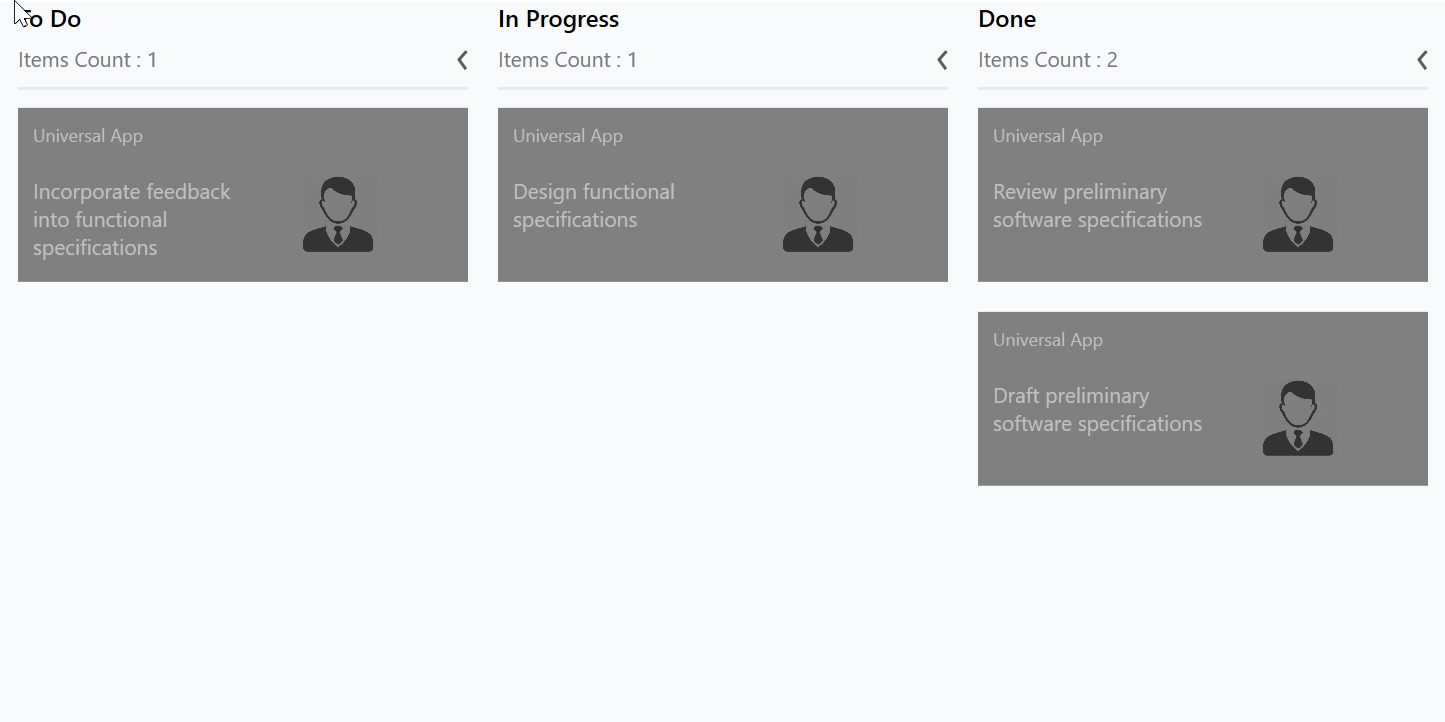
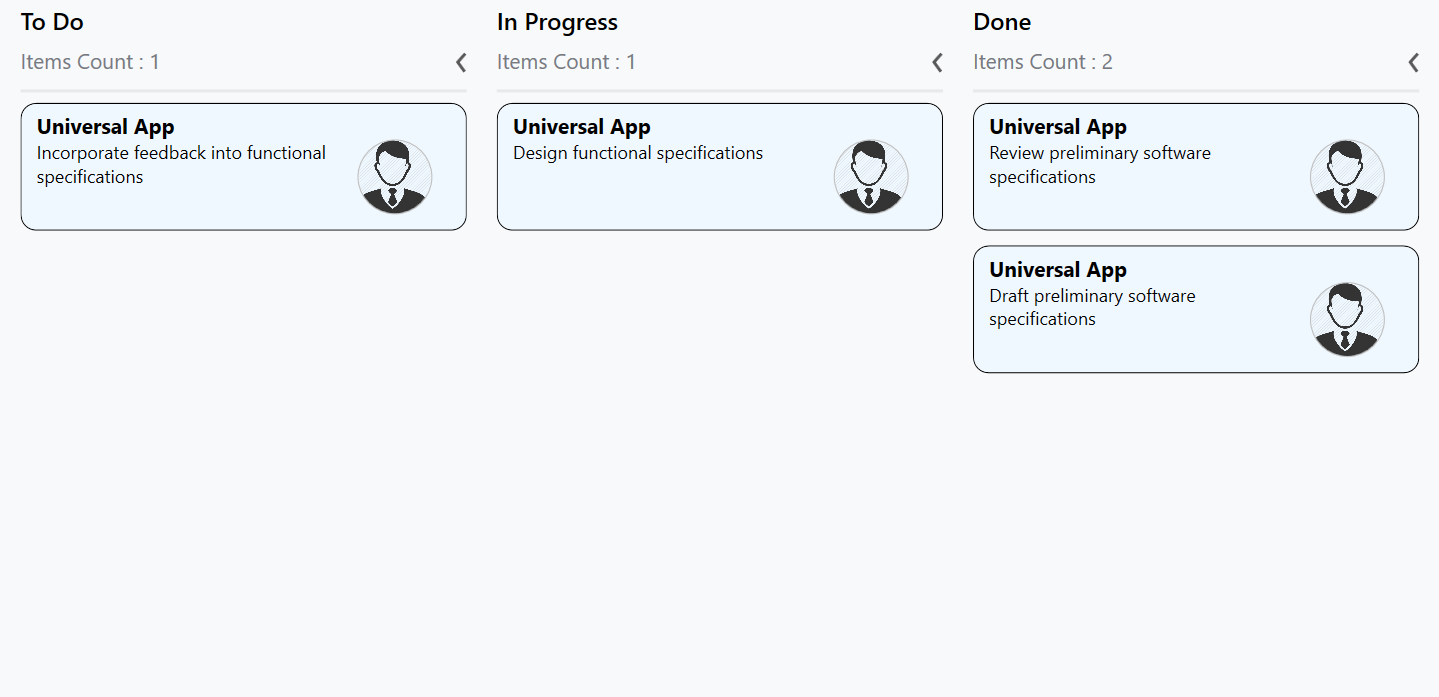
Description and CardTemplate modified for SfKanban

diff --git a/wpf-toc.html b/wpf-toc.html
@@ -842,6 +842,10 @@
         <ul>
             <li><a href="/wpf/sfkanban/overview">Overview</a></li>
             <li><a href="/wpf/sfkanban/getting-started">Getting Started</a></li>
+            <li><a href="/wpf/sfkanban/cards">Kanban Cards</a></li>
+            <li><a href="/wpf/sfkanban/events">Kanban Events</a></li>
+            <li><a href="/wpf/sfkanban/placeholderstyle">Placeholderstyle</a></li>
+            <li><a href="/wpf/sfkanban/workflows">Workflows</a></li>
         </ul>
     </li>
     <li>

diff --git a/wpf/SfKanban/Cards.md b/wpf/SfKanban/Cards.md
@@ -1,7 +1,7 @@
 ---
 layout: post
 title: Kanban Cards | SfKanban | wpf | Syncfusion
-description: Kanban Cards
+description: This section describes how the card can be customized using CardTemplate. It contains how to set the IndicatorColorPalette to Kanban. 
 platform: wpf
 control: SfKanban
 documentation: ug
@@ -87,32 +87,80 @@ You can replace the entire card template with your own design using [`SfKanban.C
 <kanban:SfKanban.CardTemplate>
     
     <DataTemplate>
-        
-        <StackPanel Margin="0,10,0,10" Orientation="Vertical"
-                    Background="Gray" Padding="10,10,10,10">
-
-            <StackPanel Orientation="Horizontal">
-
-                <TextBlock Text="{Binding Path=Title}" Foreground="Silver"/>
-
-            </StackPanel>
-
-            <StackPanel  Orientation="Horizontal">
-
-                <TextBlock Text="{Binding Description}" Width="150"
-                       FontSize="14" Foreground="Silver" TextWrapping="WrapWholeWords"/>
-                
-                <Image Source="{Binding ImageURL}" Margin="30,0,0,10"
-                       Height="50" Width="50"/>
-
-            </StackPanel>
-
-        </StackPanel>
-        
-    </DataTemplate>
     
-</kanban:SfKanban.CardTemplate>
+        <Border BorderBrush="Black"
+    
+                BorderThickness="0.75"
+    
+                CornerRadius="10"
+    
+                Background="AliceBlue"
+    
+                Margin="0,5,0,5">
+    
+            <Grid Margin="10,5,5,10">
+    
+                <Grid.ColumnDefinitions>
+    
+                    <ColumnDefinition Width="7*" />
+    
+                    <ColumnDefinition Width="3*" />
+                
+                </Grid.ColumnDefinitions>
+                
+                <Grid.RowDefinitions>
+                
+                    <RowDefinition Height="Auto" />
+                
+                    <RowDefinition Height="Auto" />
+                
+                </Grid.RowDefinitions>
+                
+                <TextBlock Text="{Binding Path=Title}"
+                
+                           FontWeight="Bold"
+                
+                           FontSize="16" />
+                
+                <TextBlock Grid.Row="1"
+                
+                           FontSize="14"
+                
+                           HorizontalAlignment="Left"
+                
+                           Text="{Binding Description}"
+                
+                           TextWrapping="WrapWholeWords" />
+                
+                <Border Grid.Row="1"
+                
+                        Grid.Column="1"
+                
+                        Height="50"
+                
+                        CornerRadius="50"
+                
+                        Width="50"
+                
+                        BorderBrush="Silver"
+                
+                        BorderThickness=".75">
+                
+                    <Border.Background>
+                
+                        <ImageBrush ImageSource="{Binding ImageURL}" />
+                
+                    </Border.Background>
+                
+                </Border>
+            
+            </Grid>
+        
+        </Border>
 
+    </DataTemplate>
+
+</kanban:SfKanban.CardTemplate>
 
 {% endhighlight %}
 

diff --git a/wpf/SfKanban/Placeholderstyle.md b/wpf/SfKanban/Placeholderstyle.md
@@ -1,7 +1,7 @@
 ---
 layout: post
 title:  Placeholder style | SfKanban | wpf | Syncfusion
-description: placeholder style
+description: The following section describes how to customize the place holders of Kanban card while drgging.
 platform: wpf
 control: SfKanban
 documentation: ug

diff --git a/wpf/SfKanban/Events.md b/wpf/SfKanban/Events.md
@@ -1,7 +1,7 @@
 ---
 layout: post
 title:  Kanban Events | SfKanban | wpf | Syncfusion
-description: kanban events
+description: This section contains the detailed information about the kanban dragging and column generated events.
 platform: wpf
 control: SfKanban
 documentation: ug

diff --git a/wpf/SfKanban/Workflows.md b/wpf/SfKanban/Workflows.md
@@ -1,7 +1,7 @@
 ---
 layout: post
 title: Workflows | SfKanban | wpf | Syncfusion
-description: workflows
+description: The following section describes how to define the workflows to the Kanban.
 platform: wpf
 control: SfKanban
 documentation: ug
